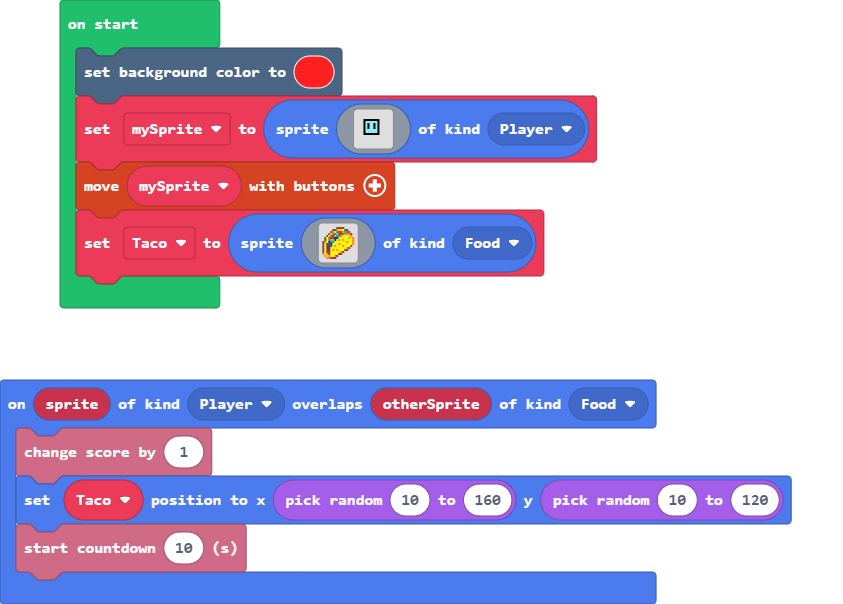
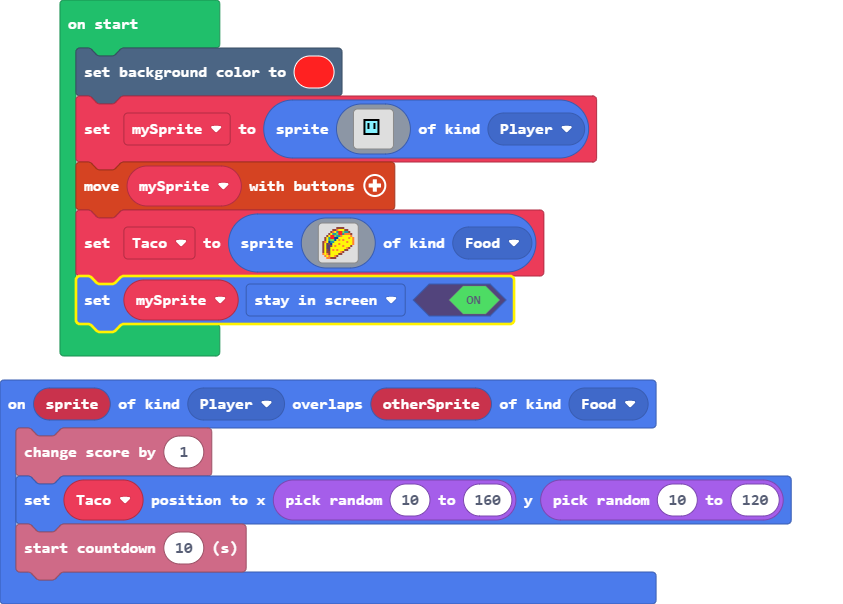
Update main.blocks, main.ts

Changed region(s): [[0.0617, 0.447, 0.6168, 0.596]]

diff --git a/main.ts b/main.ts
@@ -42,3 +42,4 @@ Taco = sprites.create(img`
     . 4 5 4 5 5 4 e . . . . . . . . 
     . . 4 4 e e e . . . . . . . . . 
     `, SpriteKind.Food)
+mySprite.setFlag(SpriteFlag.StayInScreen, true)
